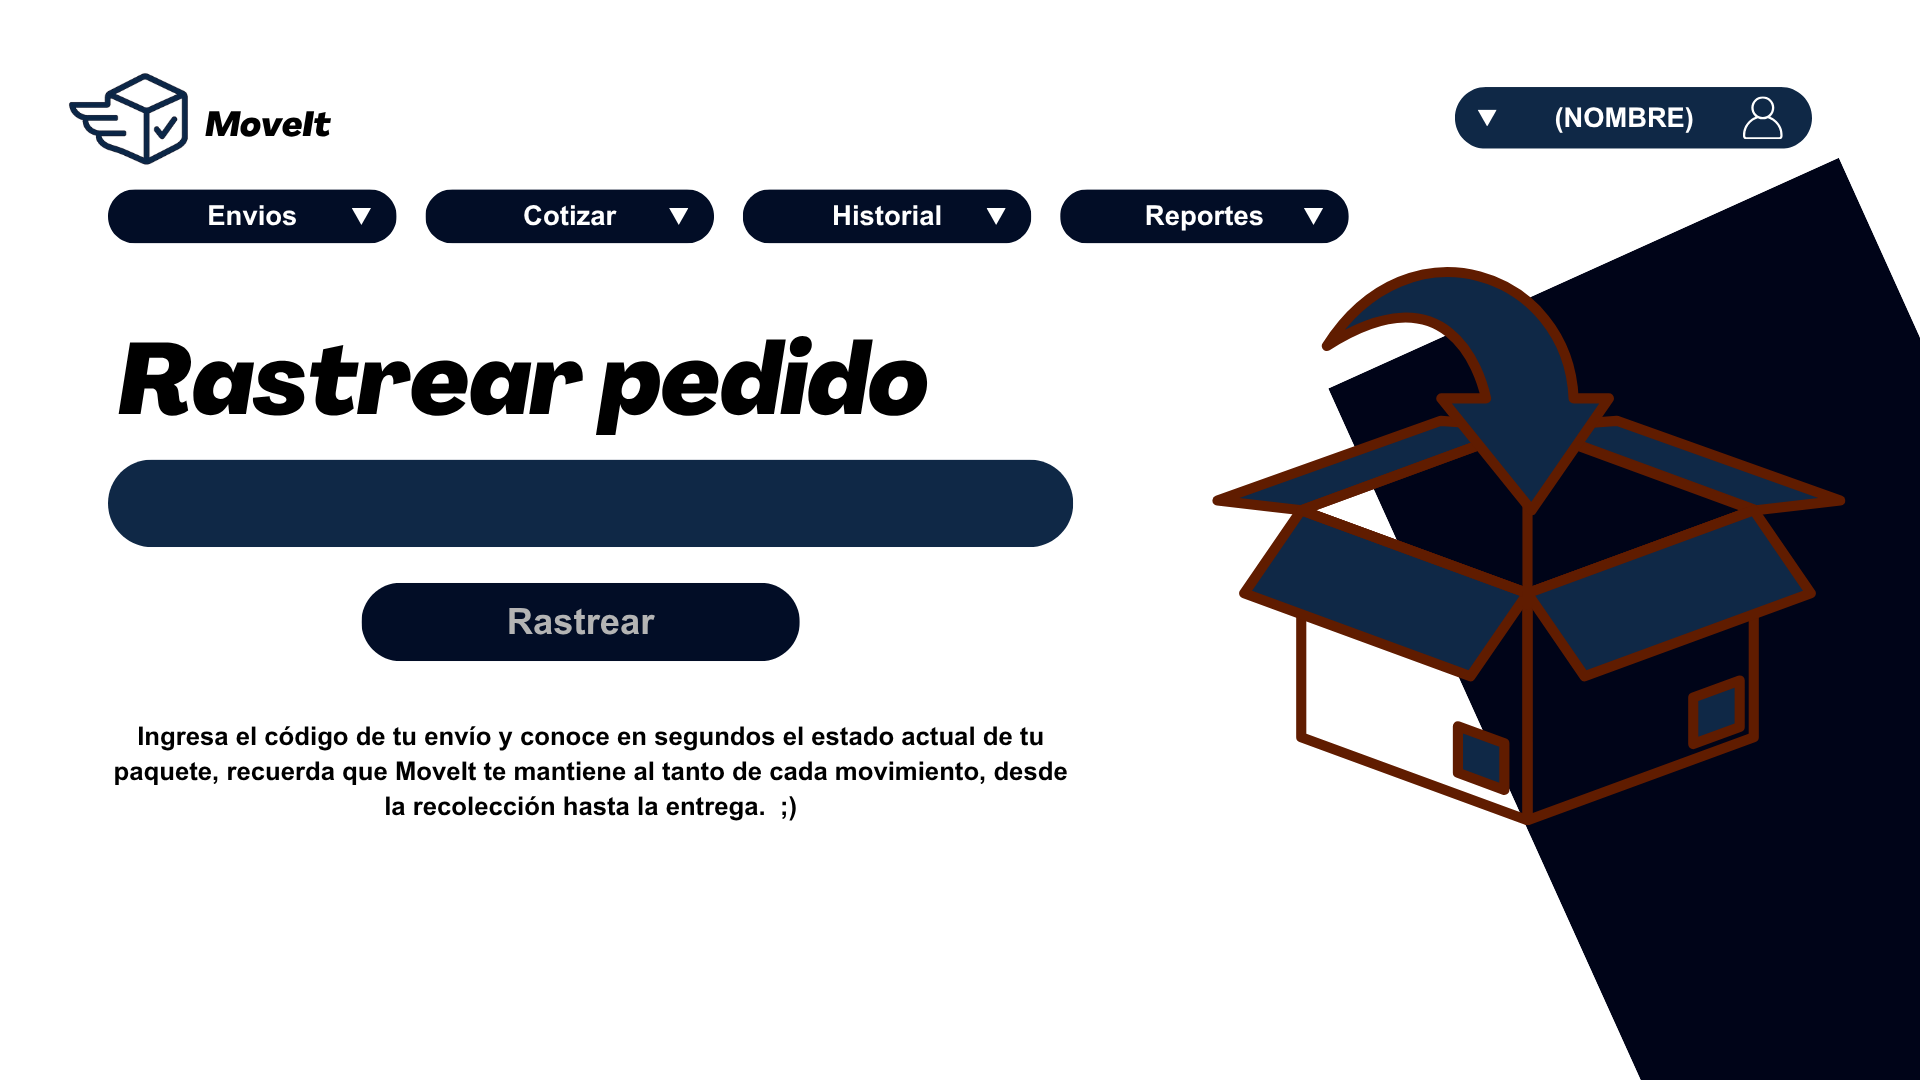
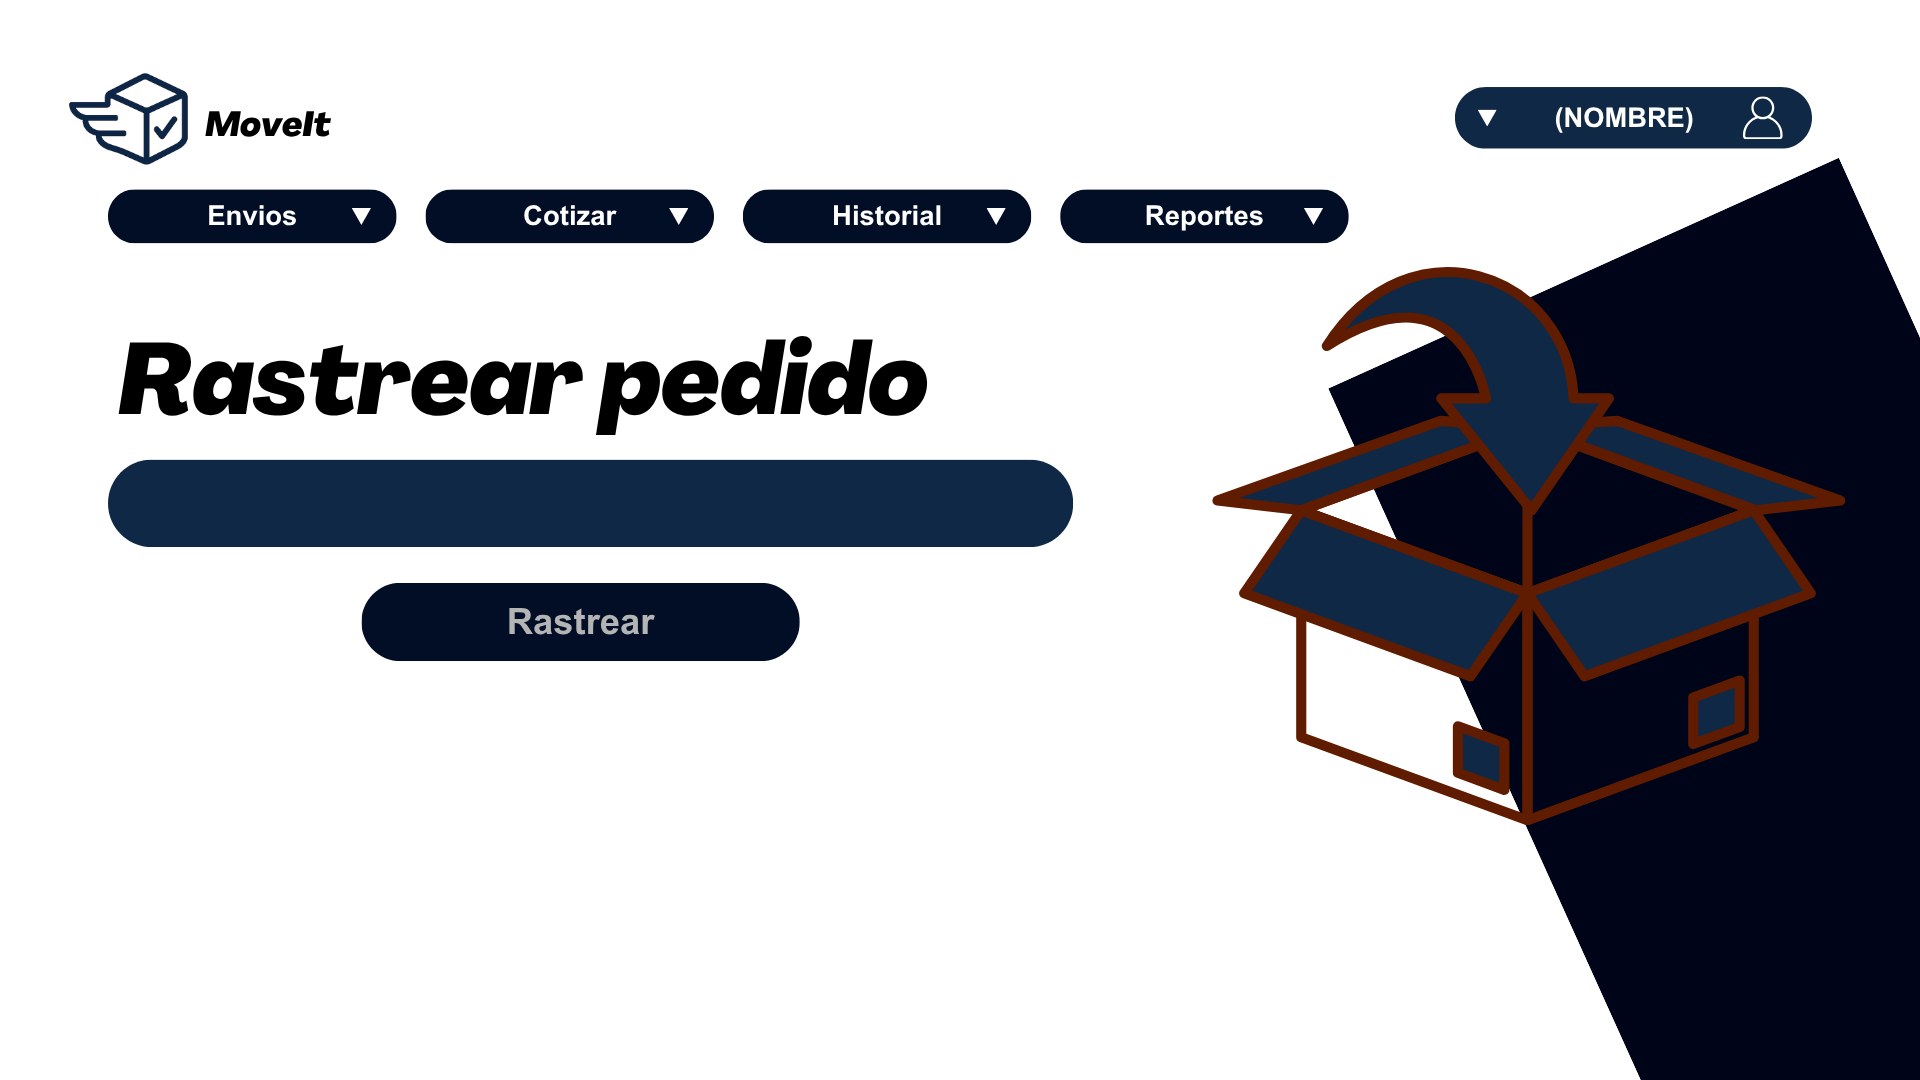
New: Funcionalidad de ver perfil y editarlo

Changed region(s): [[0.0625, 0.6722, 0.5625, 0.7639]]

diff --git a/src/main/java/uniquindio/Controller/MainPageClientController.java b/src/main/java/uniquindio/Controller/MainPageClientController.java
@@ -4,6 +4,7 @@ import javafx.fxml.FXML;
 import javafx.scene.control.Button;
 import javafx.scene.control.TextField;
 import javafx.scene.layout.AnchorPane;
+import javafx.scene.text.Text;
 import uniquindio.Helper.Sesion;
 import uniquindio.Model.DTO.ClientSesionDTO;
 import uniquindio.Model.DTO.UserPostLoginDTO;
@@ -22,11 +23,28 @@ public class MainPageClientController {
     private Button btnPerfil1;
     @FXML
     private AnchorPane anchorOpcionesUsuario;
+    @FXML
+    private Text txtMensajePostRastreo;
+    @FXML
+    private TextField txtFdCedula;
+    @FXML
+    private TextField txtFdTelefono;
+    @FXML
+    private TextField txtFdCorreo;
+    @FXML
+    private Text txtNombreCompleto;
+    @FXML
+    private AnchorPane anchorPerfil;
+    @FXML
+    private Button btnEditarDatos;
+    @FXML
+    private Button btnConfirmar;
 
     public void initialize () {
         btnPerfil.setText(user.toString());
         btnPerfil1.setText(user.toString());
         anchorOpcionesUsuario.setVisible(false);
+        anchorPerfil.setVisible(false);
     }
 
     public void extenderUsuario () {
@@ -38,7 +56,34 @@ public class MainPageClientController {
     }
 
     public void irAPerfil () {
-        //Navegacion.cambiarVista("");
+        anchorPerfil.setVisible(true);
+        txtNombreCompleto.setText(user.getNombreCompleto());
+        txtFdCedula.setText(user.getId());
+        txtFdTelefono.setText(user.getTelefono());
+        txtFdCorreo.setText(user.getEmail());
+    }
+
+    public void editarDatos () {
+        txtFdCedula.setEditable(true);
+        txtFdCorreo.setEditable(true);
+        txtFdTelefono.setEditable(true);
+        btnEditarDatos.setVisible(false);
+        btnConfirmar.setVisible(true);
+    }
+
+    public void quitarPerfil () {
+        anchorPerfil.setVisible(false);
+    }
+
+    public void confirmarCambios () {
+        txtFdCedula.setEditable(false);
+        user.setId(txtFdCedula.getText());
+        txtFdCorreo.setEditable(false);
+        user.setEmail(txtFdCorreo.getText());
+        txtFdTelefono.setEditable(false);
+        user.setTelefono(txtFdTelefono.getText());
+        btnConfirmar.setVisible(false);
+        btnEditarDatos.setVisible(true);
     }
 
     public void cerrarSesion () {

diff --git a/src/main/java/uniquindio/Model/User.java b/src/main/java/uniquindio/Model/User.java
@@ -8,7 +8,7 @@ abstract public class User {
     protected String telefono;
     protected boolean estado;
     protected TipoDocumento tipoDocumento;
-    protected String NumeroDocumento;
+    protected String numeroDocumento;
 
     public User(String Id, String NombreCompleto, String email, String password, String telefono,
                 TipoDocumento tipoDocumento, String NumeroDocumento, boolean estado) {
@@ -18,7 +18,7 @@ abstract public class User {
         this.password = password;
         this.telefono = telefono;
         this.tipoDocumento = tipoDocumento;
-        this.NumeroDocumento = NumeroDocumento;
+        this.numeroDocumento = NumeroDocumento;
         this.estado = estado;
     }
 
@@ -79,10 +79,10 @@ abstract public class User {
     }
 
     public String getNumeroDocumento() {
-        return NumeroDocumento;
+        return numeroDocumento;
     }
 
     public void setNumeroDocumento(String numeroDocumento) {
-        NumeroDocumento = numeroDocumento;
+        numeroDocumento = numeroDocumento;
     }
 }

diff --git a/src/main/java/uniquindio/Mappers/ClientMapper.java b/src/main/java/uniquindio/Mappers/ClientMapper.java
@@ -9,7 +9,7 @@ public class ClientMapper {
         if (client == null) return null;
 
         return new ClientSesionDTO(
-                client.getId(),
+                client.getNumeroDocumento(),
                 client.getNombreCompleto(),
                 client.getEmail(),
                 client.getTelefono(),
